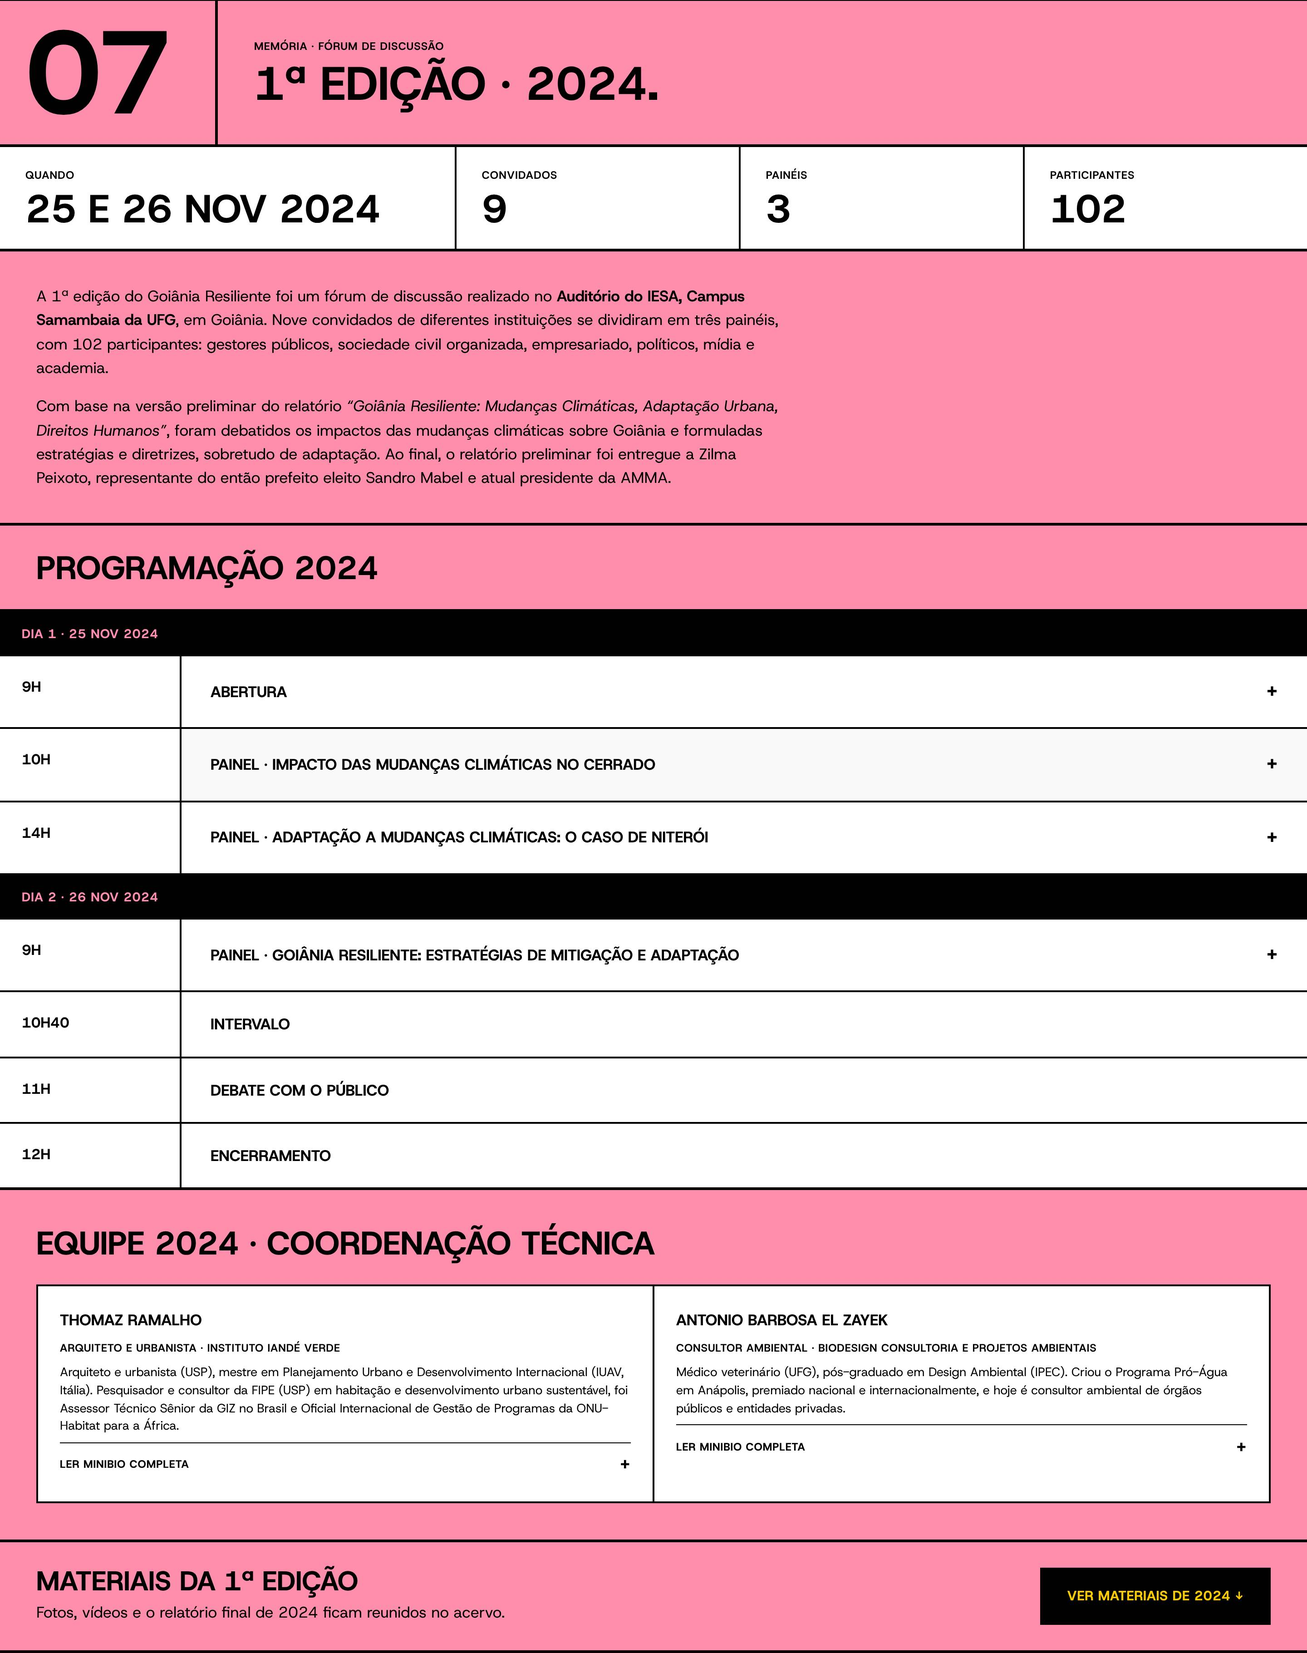
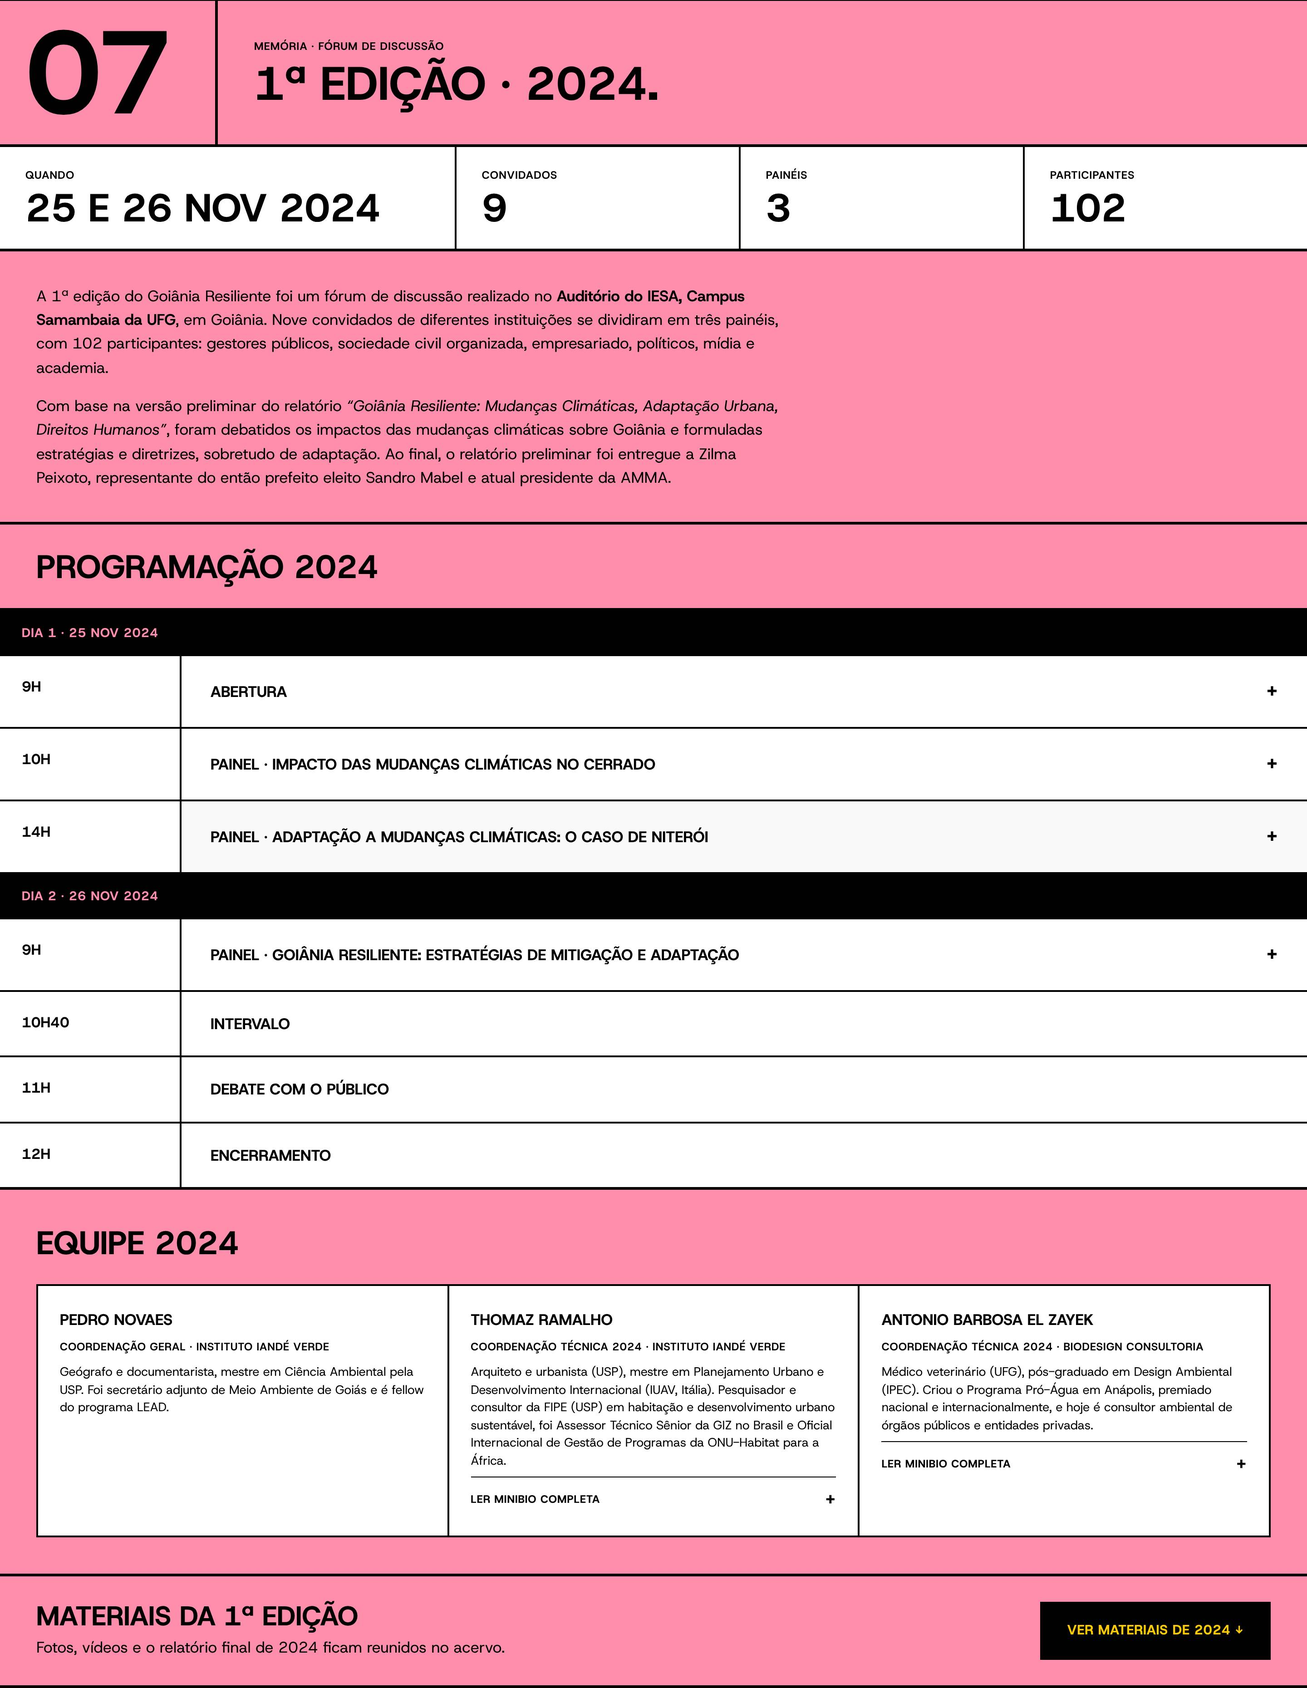
Perfis da equipe e minibio do Paulo a partir do documento de estrutura do site
- Seção 05 passa a se chamar Participantes, como no documento do Pedro.
- Minibio completa do Paulo D'Ávila (deixa de ser provisória).
- Novos perfis ligados à programação: Thomaz Ramalho (IPPUC/Curitiba),
  Zilma Peixoto, Gabriel Tenaglia, Manuel Ferreira e Pedro Novaes.
- Equipe 2024: Pedro Novaes como coordenação geral; frase atual do
  Thomaz (IPPUC) na minibio.
- Cartão 'Mais perfis em breve' ocupa o resto da última linha.
- Capturas atualizadas.

Claude-Session: https://claude.ai/code/session_01GCNgHbjtgAZspZ3tmY6gHp

Changed region(s): [[0.0, 0.031, 1.0, 0.8998], [0.0312, 0.9308, 0.2812, 0.9929]]

diff --git a/dados/convidados.js b/dados/convidados.js
@@ -1,5 +1,5 @@
 /* =====================================================================
-   PERFIS DOS CONVIDADOS · 2ª edição (2026)
+   PERFIS DOS PARTICIPANTES · 2ª edição (2026)
    ---------------------------------------------------------------------
    Para ACRESCENTAR um convidado, copie um bloco { ... } abaixo, cole no
    fim da lista (antes do "];") e troque os textos. Cada bloco termina
@@ -58,9 +58,50 @@ window.GR_CONVIDADOS = [
     nome: "Paulo D’Ávila Ferreira",
     naProgramacao: ["Paulo D’Ávila", "Paulo D’Ávila Ferreira"],
     cargo: "Presidente do IDESA",
-    /* PROVISÓRIO: texto copiado do cartão em "Quem somos". A minibio
-       enviada por ele está num anexo no Drive, ainda não lido. */
-    resumo: "Consultor com mais de três décadas em gestão ambiental pública. Foi diretor de Ecossistemas da Agência Goiana de Meio Ambiente (2004–2008).",
-    pendente: true
+    resumo: "Consultor em meio ambiente e desenvolvimento sustentável, com mais de três décadas em gestão ambiental pública e projetos socioambientais. Foi Diretor de Ecossistemas da Agência Goiana de Meio Ambiente (2004–2008) e preside o IDESA.",
+    minibio: "Paulo d'Ávila Ferreira é consultor em meio ambiente e desenvolvimento sustentável, com mais de três décadas de atuação em gestão ambiental pública e em projetos socioambientais. Foi Diretor de Ecossistemas da Agência Goiana de Meio Ambiente (2004-2008), responsável pelas áreas protegidas do estado, pelas ações integradas de educação ambiental e conservação e pelo monitoramento da qualidade do ar e das águas. Na Secretaria Municipal de Meio Ambiente de Goiânia, participou da elaboração e do acompanhamento das obras de parques urbanos como Vaca Brava, Areião, Carmo Bernardes, Taquaral e Botafogo. Preside o Instituto de Desenvolvimento Econômico e Socioambiental (IDESA), OSCIP voltada à conservação, ao manejo sustentável e ao desenvolvimento socioeconômico de comunidades, e é sócio da Urucum Socioambiental, que desenvolve consultorias e projetos nessa área. Foi também Superintendente Executivo do Instituto Brasil Criativo (2013-2023), organização social que atua em meio ambiente, educação, cultura e turismo, e dirigiu por seis anos o Grupo Nativa, com diagnósticos, planejamentos participativos e projetos ambientais."
+  },
+  {
+    id: "thomaz-ramalho",
+    nome: "Thomaz Ramalho",
+    naProgramacao: ["Thomaz Ramalho"],
+    cargo: "Diretor de Planejamento · IPPUC/Curitiba",
+    resumo: "Arquiteto e urbanista (USP), mestre em Planejamento Urbano e Desenvolvimento Internacional (IUAV, Itália). É diretor de planejamento do IPPUC – Instituto de Pesquisa e Planejamento Urbano de Curitiba e coordenador geral da revisão do Plano Diretor da cidade. Coordenou tecnicamente a 1ª edição do Goiânia Resiliente.",
+    minibio: "Arquiteto e Urbanista (USP), mestre em Planejamento Urbano e Desenvolvimento Internacional (IUAV, Itália), associado ao Globalization Studio (TU Delft, Holanda) e Especialização em Gestão de Programas e Liderança (UNSSC, Nações Unidas) e em Políticas de Gestão Fundiária (Instituto Lincoln de Políticas do Solo e Rede Global de Instrumentos Fundiários – GLTN). Foi Professor de Urbanismo na Pontifícia Universidade Católica do Paraná (PUC-PR) e professor voluntário na Universidade Metodista de Angola (UMA). Co-autor ou colaborador em várias publicações da ONU-Habitat e do Ministério das Cidades. É pesquisador e consultor da FIPE (USP) em políticas de habitação e desenvolvimento urbano sustentável e consultor em inovação urbana e membro do conselho de impacto social do Instituto IKONE Liga Social Global. Foi Assessor Técnico Sênior da Cooperação Técnica Alemã (GIZ) no Brasil e Oficial Internacional de Gestão de Programas do Escritório Regional para África do ONU-Habitat. Atualmente é diretor de planejamento do IPPUC - Instituto de Pesquisa e Planejamento Urbano de Curitiba e coordenador geral da revisão do Plano Diretor da cidade."
+  },
+
+  /* ---------- Equipe 2026 que também está na programação ----------
+     Textos do documento "GR2 - Estrutura site" (Pedro Novaes). */
+  {
+    id: "zilma-peixoto",
+    nome: "Zilma Percussor Campos Peixoto",
+    naProgramacao: ["Zilma Peixoto"],
+    cargo: "Presidente da AMMA",
+    resumo: "Mais de 35 anos de experiência em gestão pública e privada. Graduada em Direito pela UFG, com especialização pela FGV. Foi secretária municipal de Planejamento Urbano e Habitação e de Finanças de Goiânia.",
+    minibio: "Presidente da AMMA, a Agência Municipal do Meio Ambiente de Goiânia, possui mais de 35 anos de experiência em gestão, tanto no poder público quanto em empresas privadas. Graduada em Direito pela Universidade Federal de Goiás (UFG), possui especialização em Gestão Financeira com ênfase em Mercado de Capitais pela Fundação Getúlio Vargas (FGV) e MBA em Gestão Empresarial pela mesma instituição de ensino. No poder público, Zilma foi diretora de Ordenamento Urbano e superintendente de Planejamento e Gestão Sustentável da Secretaria Municipal de Planejamento Urbano e Habitação (Seplanh) em 2017. Também coordenou o Grupo Executivo de Revisão do Plano Diretor de Goiânia; integrou o Comitê Técnico de Uso e Ocupação do Solo da Seplanh e foi conselheira do Conselho Municipal de Política Urbana da Prefeitura de Goiânia (Compur). Em seguida, assumiu a Secretaria municipal de Planejamento Urbano e Habitação, e a Secretaria de Finanças, durante a gestão Iris Rezende. Foi também superintendente do Conselho Regional de Engenharia e Agronomia (CREA-GO) e prestou consultorias para empresas."
+  },
+  {
+    id: "gabriel-tenaglia",
+    nome: "Gabriel Tenaglia Carneiro",
+    naProgramacao: ["Gabriel Tenaglia"],
+    cargo: "Gerente de Combate às Mudanças Climáticas · AMMA",
+    resumo: "Doutor em Ciências Ambientais pela UFG e especialista em Políticas Públicas. Desenvolve políticas públicas e projetos ambientais estruturantes para o município.",
+    minibio: "Graduado e licenciado em Biologia pela PUC-GO (2004), mestre em Ciências Ambientais e Saúde pela PUC-GO (2007) e Doutor em Ciências Ambientais pela UFG (2012), é também Alumnus do International Visitor Leadership Program (IVLP) (2019) e especialista em Políticas Públicas pela Faculdade de Ciências Sociais da UFG (2022). Atualmente, atua como Gerente de Combate às Mudanças Climáticas e Fomento à Política de Redução de Carbono na Agência Municipal de Meio Ambiente de Goiânia, onde desenvolve políticas públicas e projetos ambientais estruturantes para o município. Destacou-se em sua trajetória como coordenador de Unidade no Escritório de Prioridades de Goiânia (2021–2022), coordenador do processo de Modernização da Agência Municipal de Meio Ambiente e Assessor Técnico da Presidência da Pasta (2018–2020). Entre 2013 e 2015, ocupou a Gerência de Monitoramento Ambiental, tendo desenvolvido projetos de monitoramento da qualidade da água e do ar na capital. Foi, ainda, representante titular do município no Comitê da Bacia Hidrográfica do Rio Paranaíba (2018–2022) e suplente no Comitê da Bacia Hidrográfica do Rio Meia Ponte. Possui sólida experiência em Geociências e Políticas Públicas, com foco em Gestão Ambiental, Análise e Planejamento Ambiental, Valoração Ambiental, Ação Antrópica, Ecologia de Paisagem, Fragmentação da Paisagem, Licenciamento Ambiental, Monitoramento Ambiental e Consultoria Ambiental."
+  },
+  {
+    id: "manuel-ferreira",
+    nome: "Manuel Eduardo Ferreira",
+    naProgramacao: ["Manuel Ferreira", "Manuel Eduardo Ferreira"],
+    cargo: "Direção Executiva · CEMPA-Cerrado",
+    resumo: "Geógrafo, professor da UFG e pesquisador do LAPIG. Doutor em Ciências Ambientais, atua em sensoriamento remoto, agricultura regenerativa e REDD+.",
+    minibio: "Manuel Eduardo Ferreira é geógrafo, mestre em Geociências e Doutor em Ciências Ambientais. Desde 2009, é professor da Universidade Federal de Goiás - Instituto de Estudos Socioambientais e vice-coordenador do Lab. de Sensoriamento Remoto (LAPIG), onde exerce a carreira de pesquisador. Desde 2023, ocupa a Direção Executiva do Centro de Excelência em Estudos, Monitoramento e Previsões Ambientais do Cerrado (CEMPA-Cerrado). Na pós-graduação, integra o quadro permanente dos Programas de Pós-Graduação em Geografia (PPGEO), Ciências Ambientais (PPG-CIAMB) e Agronegócio (PPGAGRO). Seus interesses acadêmicos envolvem o monitoramento e a modelagem ambiental de paisagens naturais e antrópicas nos biomas Cerrado, Amazônia e Mata Atlântica, a partir de Sensoriamento Remoto (aéreo e orbital) e Geoprocessamento. Nos últimos anos, tem trabalhado com drones no mapeamento de ativos ambientais, restauração ecológica e agricultura regenerativa. Em 2024, integrou o Grupo de Trabalho Técnico em Mensuração, Reportação e Verificação de estoque de carbono, no âmbito da Comissão Nacional de REDD+ do Ministério do Meio Ambiente (GTT MRV - CONAREDD+)."
+  },
+  {
+    id: "pedro-novaes",
+    nome: "Pedro Novaes",
+    naProgramacao: ["Pedro Novaes"],
+    cargo: "Coordenação geral · Pesquisador LAPIG/UFG",
+    resumo: "Geógrafo e documentarista, mestre em Ciência Ambiental pela USP. Foi secretário adjunto de Meio Ambiente de Goiás e é fellow do programa LEAD.",
+    minibio: "Pedro Novaes é geógrafo e também documentarista. É mestre em Ciência Ambiental pela USP e doutorando em Ciências Ambientais pela Universidade Federal de Goiás. Foi chefe de gabinete da Agência Ambiental de Goiás e Secretário Adjunto de Meio Ambiente e Recursos Hídricos do Estado de Goiás entre 2000 e 2004. É fellow do Programa LEAD, de lideranças para meio ambiente e desenvolvimento. Trabalha como pesquisador no LAPIG, Laboratório de Sensoriamento Remoto e Geoprocessamento da UFG e no CEMPA-Cerrado. É também membro da equipe da Iniciativa Cerrados da Fiocruz. É colunista do site “A Redação” e colaborador da revista piauí. Escreveu o livro “O Jogo das Utopias Cruzadas - Participação, Natureza e Desenvolvimento”, publicado pela Editora Dialética."
   },
 ];

diff --git a/index.html b/index.html
@@ -218,7 +218,7 @@ footer .inner {
       <a href="#faces">02. Adaptação e Mitigação</a>
       <a href="#goiania">03. E Goiânia?</a>
       <a href="#programacao">04. Programação · 25–26 nov</a>
-      <a href="#convidados">05. Convidados</a>
+      <a href="#convidados">05. Participantes</a>
       <a href="#quem-somos">06. Quem Somos</a>
       <a href="#edicao-2024">07. Edição 2024</a>
       <a href="#acervo">08. Acervo</a>
@@ -556,13 +556,12 @@ footer .inner {
       <div class="num">05</div>
       <div class="titles">
         <span class="label">Quem fala na 2ª edição</span>
-        <h2>Convidados.</h2>
+        <h2>Participantes.</h2>
       </div>
     </div>
-    <p class="conv-sub">Toque no nome sublinhado de um convidado na programação para ver o perfil. Novos perfis são publicados à medida que chegam.</p>
-    <div class="conv-grid" id="convidadosGrid">
-      <noscript><p class="conv-vazio">Ative o JavaScript do navegador para ver os perfis dos convidados.</p></noscript>
-    </div>
+    <p class="conv-sub">Toque no nome sublinhado de um participante na programação para ver o perfil. Novos perfis são publicados à medida que chegam.</p>
+    <noscript><p class="conv-vazio">Ative o JavaScript do navegador para ver os perfis dos participantes.</p></noscript>
+    <div class="conv-grid" id="convidadosGrid"></div>
   </section>
 
   <!-- ================= 06 · QUEM SOMOS ================= -->
@@ -705,7 +704,7 @@ footer .inner {
             <div class="detalhe">
               <div class="papel"><span class="label">Apresentação</span><span>Relatório “Goiânia Resiliente: Mudanças Climáticas, Adaptação Urbana, Direitos Humanos”, por <a href="#equipe-2024-thomaz-ramalho">Thomaz Ramalho</a> (Instituto Iandé Verde)</span></div>
               <div class="papel"><span class="label">Debatedores</span><span>Prof. Klebber Formiga (UFG) · <a href="#equipe-2024-antonio-zayek">Antonio Zayek</a> (Biodesign Consultoria)</span></div>
-              <div class="papel"><span class="label">Mediação</span><span>Pedro Novaes (Instituto Iandé Verde)</span></div>
+              <div class="papel"><span class="label">Mediação</span><span><a href="#equipe-2024-pedro-novaes">Pedro Novaes</a> (Instituto Iandé Verde)</span></div>
             </div>
           </details>
         </div>
@@ -716,20 +715,25 @@ footer .inner {
     </div>
 
     <div class="equipe">
-      <h3>Equipe 2024 · Coordenação técnica</h3>
+      <h3>Equipe 2024</h3>
       <div class="ed24-equipe">
+        <div class="pessoa" id="equipe-2024-pedro-novaes">
+          <strong>Pedro Novaes</strong>
+          <span class="cargo">Coordenação geral · Instituto Iandé Verde</span>
+          <p>Geógrafo e documentarista, mestre em Ciência Ambiental pela USP. Foi secretário adjunto de Meio Ambiente de Goiás e é fellow do programa LEAD.</p>
+        </div>
         <div class="pessoa" id="equipe-2024-thomaz-ramalho">
           <strong>Thomaz Ramalho</strong>
-          <span class="cargo">Arquiteto e urbanista · Instituto Iandé Verde</span>
+          <span class="cargo">Coordenação técnica 2024 · Instituto Iandé Verde</span>
           <p>Arquiteto e urbanista (USP), mestre em Planejamento Urbano e Desenvolvimento Internacional (IUAV, Itália). Pesquisador e consultor da FIPE (USP) em habitação e desenvolvimento urbano sustentável, foi Assessor Técnico Sênior da GIZ no Brasil e Oficial Internacional de Gestão de Programas da ONU-Habitat para a África.</p>
           <details class="ler-mais">
             <summary>Ler minibio completa</summary>
-            <p>Arquiteto e Urbanista (USP), mestre em Planejamento Urbano e Desenvolvimento Internacional (IUAV, Itália), associado ao Globalization Studio (TU Delft, Holanda), com especialização em Gestão de Programas e Liderança (UNSSC, Nações Unidas) e em Políticas de Gestão Fundiária (Instituto Lincoln de Políticas do Solo e Rede Global de Instrumentos Fundiários – GLTN). Foi professor de Urbanismo na PUC-PR e professor voluntário na Universidade Metodista de Angola (UMA). Coautor ou colaborador de várias publicações da ONU-Habitat e do Ministério das Cidades. É pesquisador e consultor da FIPE (USP) em políticas de habitação e desenvolvimento urbano sustentável, consultor em inovação urbana e membro do conselho de impacto social do Instituto IKONE Liga Social Global. Foi Assessor Técnico Sênior da Cooperação Técnica Alemã (GIZ) no Brasil e Oficial Internacional de Gestão de Programas do Escritório Regional para África da ONU-Habitat.</p>
+            <p>Arquiteto e Urbanista (USP), mestre em Planejamento Urbano e Desenvolvimento Internacional (IUAV, Itália), associado ao Globalization Studio (TU Delft, Holanda), com especialização em Gestão de Programas e Liderança (UNSSC, Nações Unidas) e em Políticas de Gestão Fundiária (Instituto Lincoln de Políticas do Solo e Rede Global de Instrumentos Fundiários – GLTN). Foi professor de Urbanismo na PUC-PR e professor voluntário na Universidade Metodista de Angola (UMA). Coautor ou colaborador de várias publicações da ONU-Habitat e do Ministério das Cidades. É pesquisador e consultor da FIPE (USP) em políticas de habitação e desenvolvimento urbano sustentável, consultor em inovação urbana e membro do conselho de impacto social do Instituto IKONE Liga Social Global. Foi Assessor Técnico Sênior da Cooperação Técnica Alemã (GIZ) no Brasil e Oficial Internacional de Gestão de Programas do Escritório Regional para África da ONU-Habitat. Atualmente é diretor de planejamento do IPPUC – Instituto de Pesquisa e Planejamento Urbano de Curitiba e coordenador geral da revisão do Plano Diretor da cidade.</p>
           </details>
         </div>
         <div class="pessoa" id="equipe-2024-antonio-zayek">
           <strong>Antonio Barbosa El Zayek</strong>
-          <span class="cargo">Consultor ambiental · Biodesign Consultoria e Projetos Ambientais</span>
+          <span class="cargo">Coordenação técnica 2024 · Biodesign Consultoria</span>
           <p>Médico veterinário (UFG), pós-graduado em Design Ambiental (IPEC). Criou o Programa Pró-Água em Anápolis, premiado nacional e internacionalmente, e hoje é consultor ambiental de órgãos públicos e entidades privadas.</p>
           <details class="ler-mais">
             <summary>Ler minibio completa</summary>
@@ -844,9 +848,9 @@ footer .inner {
 </footer>
 
 <!-- Janela do perfil (aberta ao tocar no nome de um convidado na programação) -->
-<dialog class="perfil-modal" id="perfilModal" aria-label="Perfil do convidado">
+<dialog class="perfil-modal" id="perfilModal" aria-label="Perfil do participante">
   <div class="modal-barra">
-    <span class="label">Perfil do convidado</span>
+    <span class="label">Perfil do participante</span>
     <button type="button" class="modal-fechar" id="perfilFechar">Fechar ✕</button>
   </div>
   <div class="modal-corpo" id="perfilCorpo"></div>

diff --git a/css/style.css b/css/style.css
@@ -772,7 +772,7 @@ a.conv-link:focus-visible, .conv-agenda a:focus-visible, .ler-mais summary:focus
 .ed24-dia { padding: 14px 24px; font-size: 14px; font-weight: 800; text-transform: uppercase; letter-spacing: .04em; background: var(--preto); color: var(--rosa); }
 .ed24-prog .sessao:last-child { border-bottom: none; }
 .ed24-prog .papel a { font-weight: 700; text-underline-offset: 3px; }
-.ed24-equipe { display: grid; grid-template-columns: repeat(2, 1fr); gap: 2px; border: var(--borda); background: var(--preto); }
+.ed24-equipe { display: grid; grid-template-columns: repeat(3, 1fr); gap: 2px; border: var(--borda); background: var(--preto); }
 .ed24-equipe .pessoa { background: var(--branco); scroll-margin-top: 70px; }
 .ed24-equipe .pessoa:target { background: var(--amarelo); }
 .ed24 .equipe { border-bottom: var(--borda-grossa); }
@@ -814,3 +814,12 @@ a.conv-link:focus-visible, .conv-agenda a:focus-visible, .ler-mais summary:focus
 .acervo-vazio { padding: 22px 40px; font-size: 15px; font-weight: 600; border-bottom: var(--borda-grossa); }
 @media (max-width: 900px) { .acervo-vazio { padding: 18px 20px; } }
 @media (max-width: 760px) { .filtros .chip { padding: 12px 16px; min-height: 44px; } }
+@media (max-width: 1100px) and (min-width: 761px) { .ed24-equipe { grid-template-columns: repeat(2, 1fr); } }
+/* O cartão "Mais perfis em breve" ocupa o resto da última linha */
+@media (min-width: 1101px) {
+  .conv-aviso:nth-child(3n+2) { grid-column: span 2; }
+  .conv-aviso:nth-child(3n+1) { grid-column: 1 / -1; }
+}
+@media (max-width: 1100px) and (min-width: 701px) {
+  .conv-aviso:nth-child(odd) { grid-column: 1 / -1; }
+}

diff --git a/js/main.js b/js/main.js
@@ -182,7 +182,7 @@
     });
     var aviso = el("div", "conv-aviso");
     aviso.appendChild(el("strong", null, "Mais perfis em breve"));
-    aviso.appendChild(el("p", null, "Os perfis dos demais convidados serão publicados assim que recebermos as minibios. Enquanto isso, veja todos os nomes na programação."));
+    aviso.appendChild(el("p", null, "Os perfis dos demais participantes serão publicados assim que recebermos as minibios. Enquanto isso, veja todos os nomes na programação."));
     var ir = el("a", "btn", "Ver programação ↑");
     ir.href = "#programacao";
     aviso.appendChild(ir);
